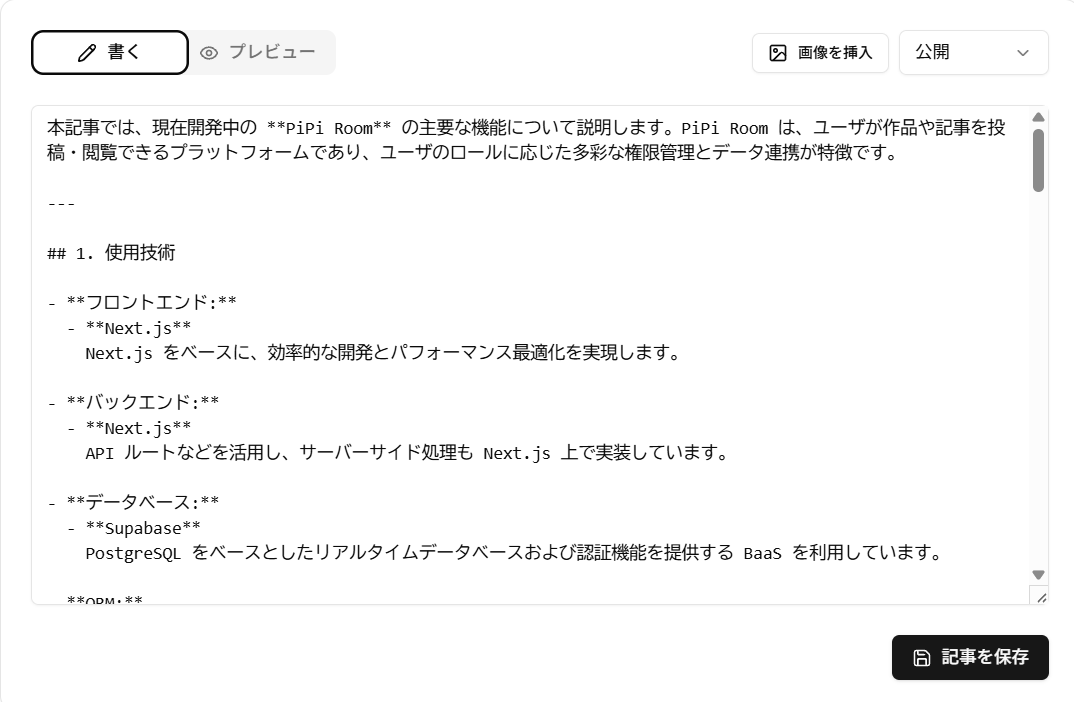
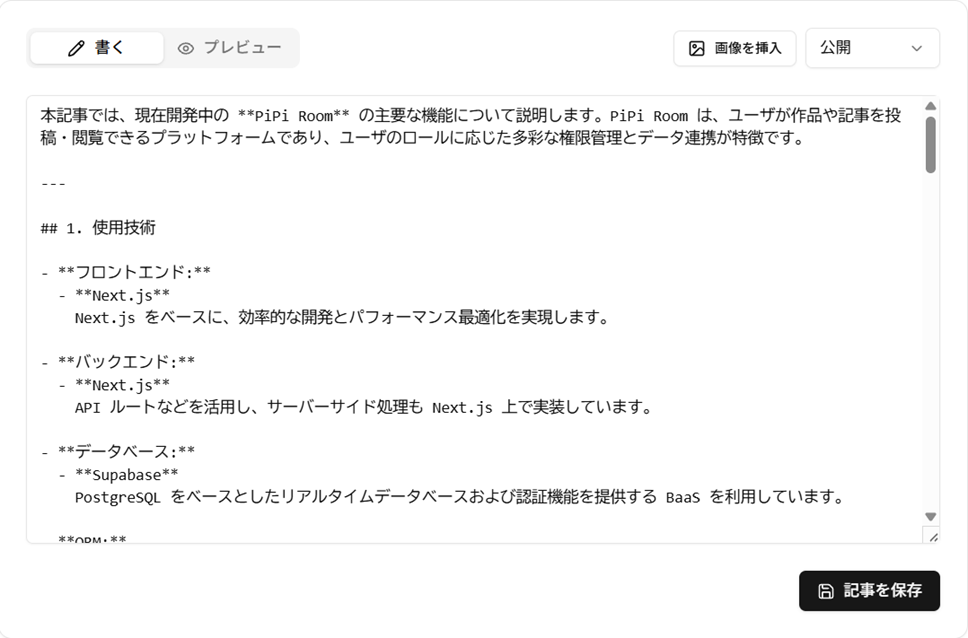
readmeの編集

diff --git a/README.md b/README.md
@@ -51,7 +51,9 @@ Pied Piper青山テック愛好会（現 Digitart テクノロジー愛好会）
 
 Article ページでは、Markdown を使って記事を書き、そのままサイト上で共有できます。画像挿入時には仮 URL を用いた一時保存を行うことで、ブラウザ上でプレビューを確認しながら執筆を進められるようにしています。
 
-![Article ページのイメージ](./pipi-room/public/images/article.png)
+| 編集画面 | プレビュー画面 |
+| --- | --- |
+| <img src="./pipi-room/public/images/edit.png" alt="編集画面" width="420" /> | <img src="./pipi-room/public/images/preview.png" alt="プレビュー画面" width="420" /> |
 ---
 
 ## 機能
